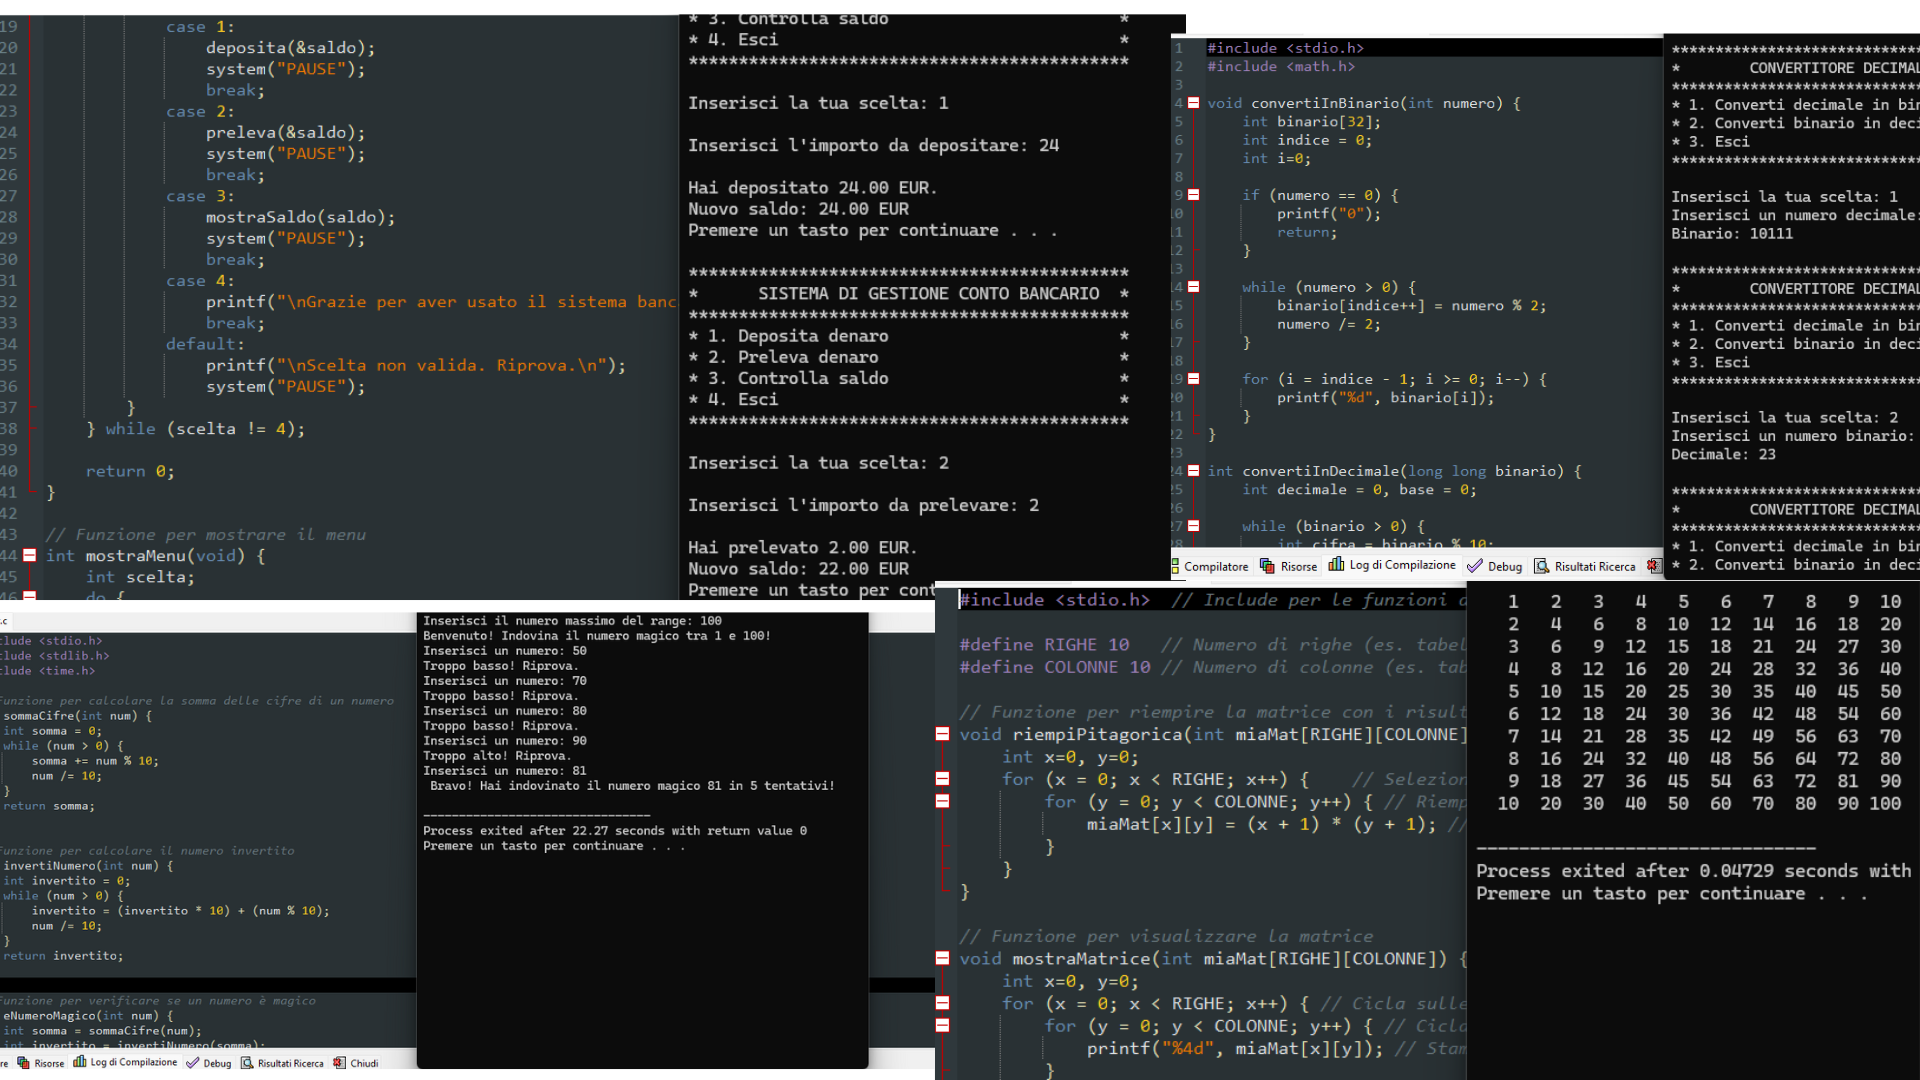
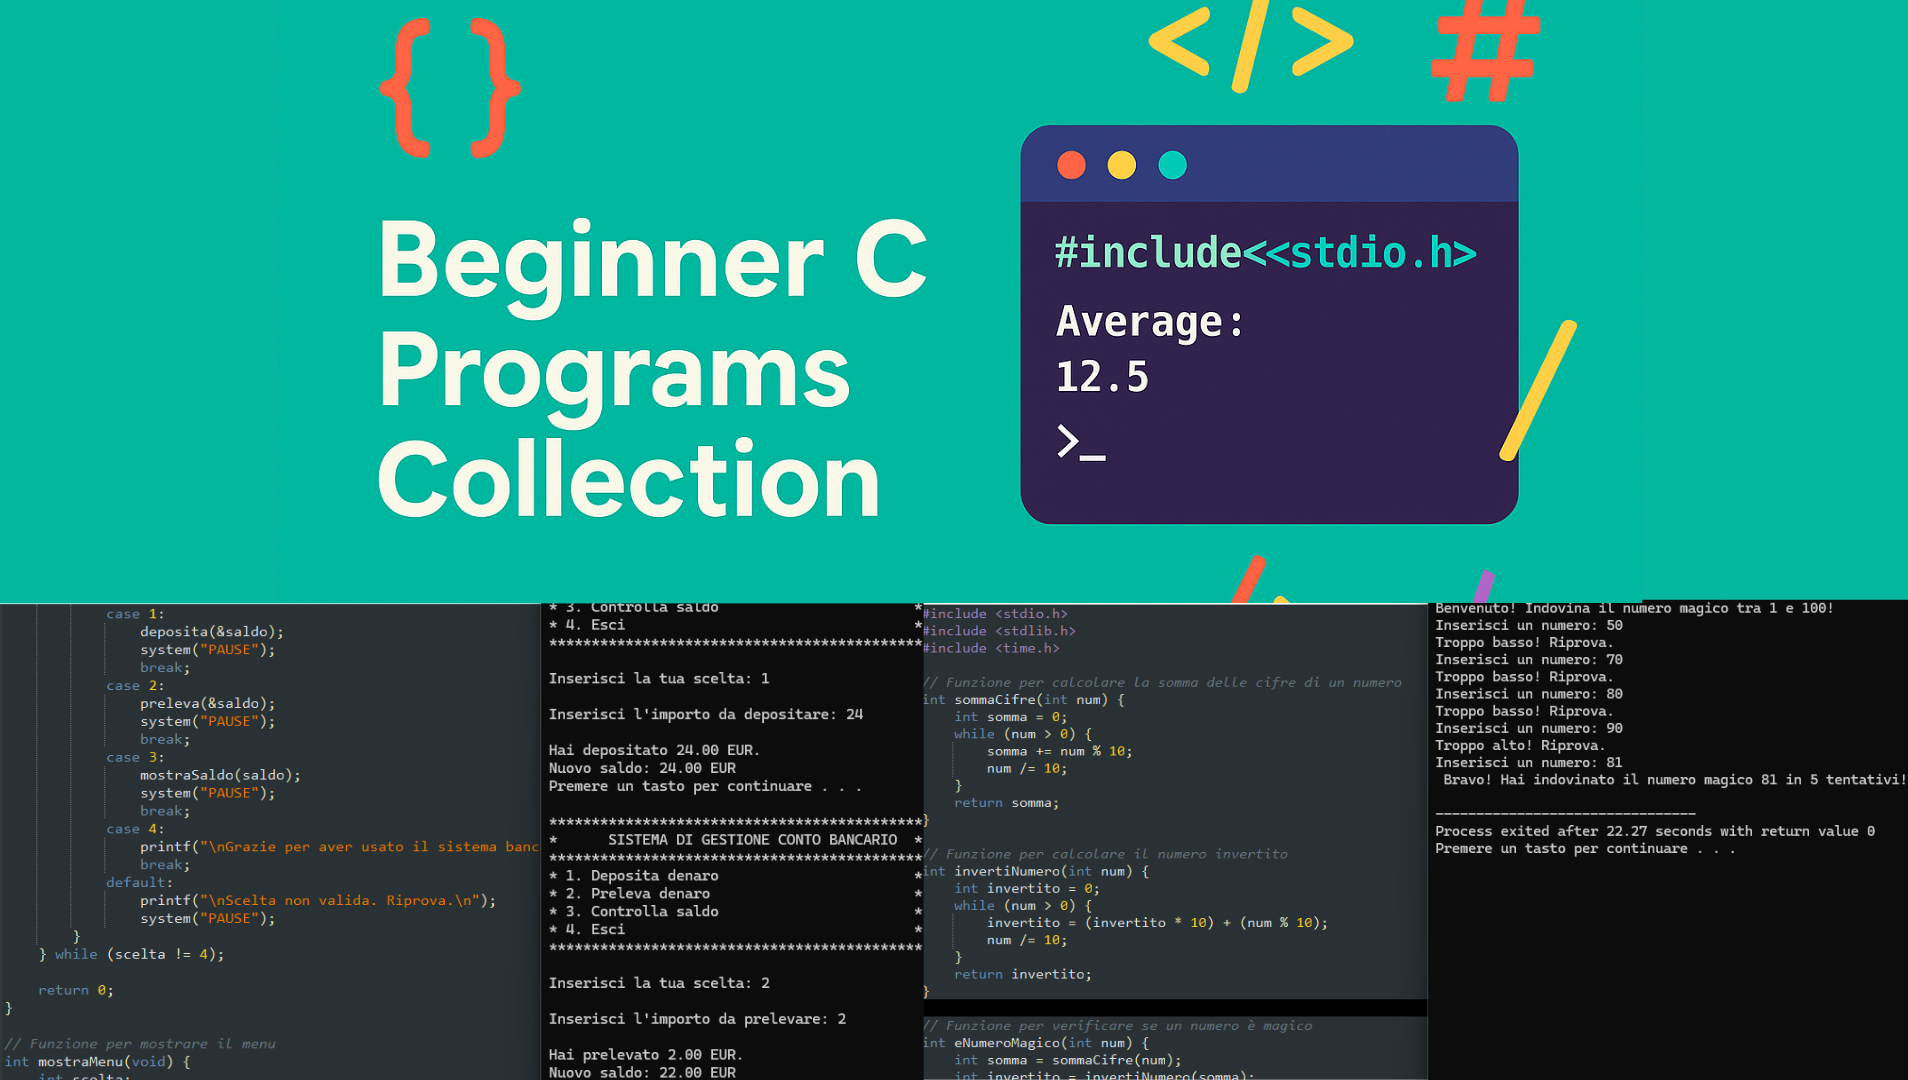
commit

diff --git a/.history/README_20250414174322.md b/.history/README_20250414174322.md
@@ -4,12 +4,7 @@
 
 Welcome! This repository contains a collection of beginner-friendly C programs, ideal for those starting out with programming and looking to explore concepts such as loops, functions, conditionals, sorting algorithms, number system conversions, and simple terminal-based games.
 
-💻 Who is this for?
-Students learning C in school or uni
-
-Anyone who wants to actually understand how C works
-
-Anyone who just wants to play with code like building blocks
+---
 
 ## 📂 List of Programs
 
@@ -53,7 +48,3 @@ gcc ProgramName.c -o program_name
 
 # Run the executable
 ./program_name
-
-
-If you're on Windows, Code::Blocks works great.
-Just paste the code in a .c file and hit run.

diff --git a/.history/README_20250414223214.md b/.history/README_20250414223214.md
@@ -53,7 +53,3 @@ gcc ProgramName.c -o program_name
 
 # Run the executable
 ./program_name
-
-
-If you're on Windows, Code::Blocks works great.
-Just paste the code in a .c file and hit run.
